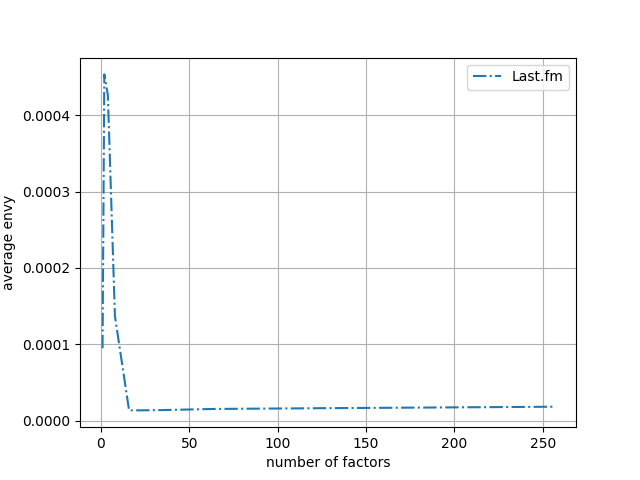
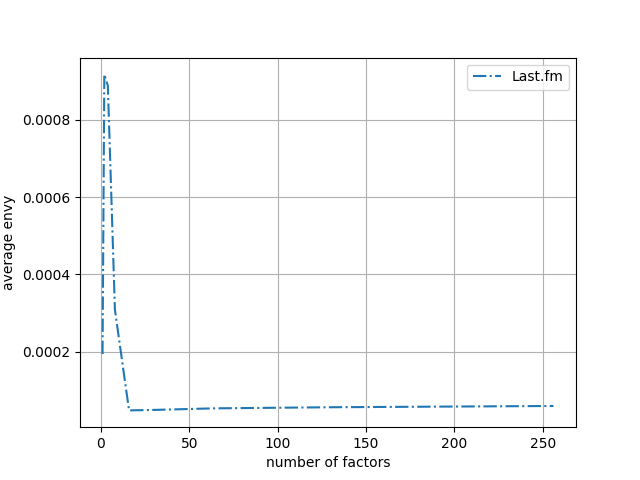
Envy users checked through matrix operations to speed up computation

diff --git a/vN/src/lib/envy.py b/vN/src/lib/envy.py
@@ -11,7 +11,7 @@ def utility(m, n, probability_policies, expec_rewards):
     return np.sum(probability_policies[n] * expec_rewards[m])
 
 # Basic definition of envy-freeness in a system (see 3.1 paper)
-def envy_free_basic(recommendations, policies, expec_rewards, epsilon=0.05, gamma=0.5, lamb=0.5):
+def envy_free_basic(recommendations, policies, expec_rewards, epsilon=0.05, gamma=0.5, lamb=0.5, relax_criterion=False):
     """
     Audits whether a system is envy-free according to the basic definition.
 
@@ -25,75 +25,30 @@ def envy_free_basic(recommendations, policies, expec_rewards, epsilon=0.05, gamm
     :lamb:                  determines the envy threshold for the SYSTEM. A system is considered envy-free if at leas (1 - lambda) users are not envious
     :returns:               data = {"envy_free": <envy_free>, "avg_envy_user": <average_envy_per_user>, "prop_envious_users": <proportion_envious_users>}
     """
-    print("Auditing envy through basic definition...")
+    print("Checking for envy through basic definition...")
     users, _ = recommendations.shape
 
-    # RELAXATION CONDITIONS: such that we do not have to try ALL users and ALL policies
-    # Threshold of when an user is considered envious
-    envious_user_threshold = int(gamma * users)
-    # Threshold of users that should not be envious
-    envy_free_users_threshold = users * (1 - lamb)
+    # # RELAXATION CONDITIONS: such that we do not have to try ALL users and ALL policies
+    # # Threshold of when an user is considered envious
+    # envious_user_threshold = int(gamma * users)
+    # # Threshold of users that should not be envious
+    # envy_free_users_threshold = users * (1 - lamb)
 
-    # Envy per user
-    envy_users = np.zeros(users)
+    utilities = policies @ expec_rewards.T
 
-    # The users
-    users = np.arange(users)    
-
-    num_envy_free_users = 0
-    envious_system = True
-
-    # Determine envy-freeness in whole system by checking for user-sided utility inequality
-    for user in tqdm(range(len(users))):
+    delta_utilities = utilities - np.repeat([utilities.diagonal()], users, axis=0)
     
-        # Determine utility of own policy for current user
-        u_mm = utility(user, user, policies, expec_rewards)
-        
-        # Max utility difference experienced by user
-        u_delta_max = 0
-        envious_count = 0
-        other_users = users[users != user]
+    max_delta_utilities = delta_utilities.max(axis=0, keepdims=True)
 
-        # Randomly shuffle since users should come from a discrete uniform distribution
-        np.random.shuffle(other_users)
+    delta_envy = np.maximum(max_delta_utilities, np.zeros(users))
 
-        envious_user = False
+    envy_users = delta_envy.flatten()
 
-        # Determine utilities of other users' policies for current user
-        for other_user in other_users:
-            u_mn = utility(user, other_user, policies, expec_rewards)
-            
-            # Update to track the maximum envy experienced by the current user
-            u_delta = u_mn - u_mm
-            if u_delta > u_delta_max:
-                u_delta_max = u_delta
-
-            # User has envy
-            if u_mm + epsilon < u_mn:
-                envious_count += 1                    
-
-            # RELAXATION: when at least this number of other policies make the user envy consider him envious 
-            if envious_count > envious_user_threshold:
-                envious_user = True
-                break
-
-        # Save envy of user
-        envy_users[user] = max(u_delta_max, 0) 
-
-        if envious_user == False:
-            num_envy_free_users += 1
-
-        # RELAXATION: check whether system is envy-free
-        if num_envy_free_users == envy_free_users_threshold:
-            envious_system = False
-            break            
-
-    envy_free = not envious_system
-    M = len(envy_users)
     average_envy_per_user = np.mean(envy_users)
-    # proportion_envious_users = np.count_nonzero(envy_users > epsilon) / M
     proportion_envious_users = np.mean(envy_users > epsilon)
-    return {"envy_free": envy_free, "avg_envy_user": average_envy_per_user, "prop_envious_users": proportion_envious_users}
+
+    # <envy_free> temporarily none
+    return {"envy_free": None, "avg_envy_user": average_envy_per_user, "prop_envious_users": proportion_envious_users}
 
 def determine_envy_freeness(recommendations, policies, rewards, expec_rewards, mode_envy="basis"):
     """

diff --git a/vN/src/user_movie.py b/vN/src/user_movie.py
@@ -63,6 +63,8 @@ if __name__ == "__main__":
     movies_rating_count = helper.merge_duplicates(user_movies, "movieID", "rating_count")
     movies_rating_count_ranked = movies_rating_count.sort_values(by=["rating_count"], ascending=False)
 
+    # print(movies_rating_count_ranked)
+
     # Get the top 2500 number of times rated items (i.e number of cumulative rating count) 
     items = np.array(movies_rating_count_ranked["movieID"])[0:2500]
     
@@ -71,7 +73,7 @@ if __name__ == "__main__":
     user_item = user_movies[user_movies["movieID"].isin(items)] 
     
     # Get users that gave the most rating
-    users_rating_count = helper.merge_duplicates(user_item, "userID", "rating_count")
+    users_rating_count = helper.merge_duplicates(user_movies, "userID", "rating_count")
     users_rating_count_ranked = users_rating_count.sort_values(by=["rating_count"], ascending=False)
 
     # Keep top 2000 users
@@ -87,6 +89,11 @@ if __name__ == "__main__":
     # Pre-process the ratings
     user_item["rating"] = user_item["rating"].map(transform)
     
+    # Get users
+    users = user_item["userID"].unique()
+    # Get items
+    items = user_item["movieID"].unique()
+
     shape = (len(users), len(items))
 
     # Create indices for users and items that have the most rating

diff --git a/vN/src/main.py b/vN/src/main.py
@@ -77,9 +77,6 @@ if __name__ == "__main__":
 
         data_set["vars"]["ground_truth"] = ground_truth
 
-        print(ground_truth.shape)
-        exit()
-
         ##########################
         #   RECOMMENDER SYSTEM: from here on we generate 144 preference estimation models one for each hyperparameter combination
         ##########################
@@ -191,7 +188,7 @@ if __name__ == "__main__":
             os.mkdir(experiment_dir_path)
         
         # Only perform experiment when not yet executed
-        if len(os.listdir(experiment_dir_path)) == 0:    
+        if True:#len(os.listdir(experiment_dir_path)) == 0:    
             print("Running experiment...", experiment_dir)    
         
             keys = recommendation_policies.keys()
